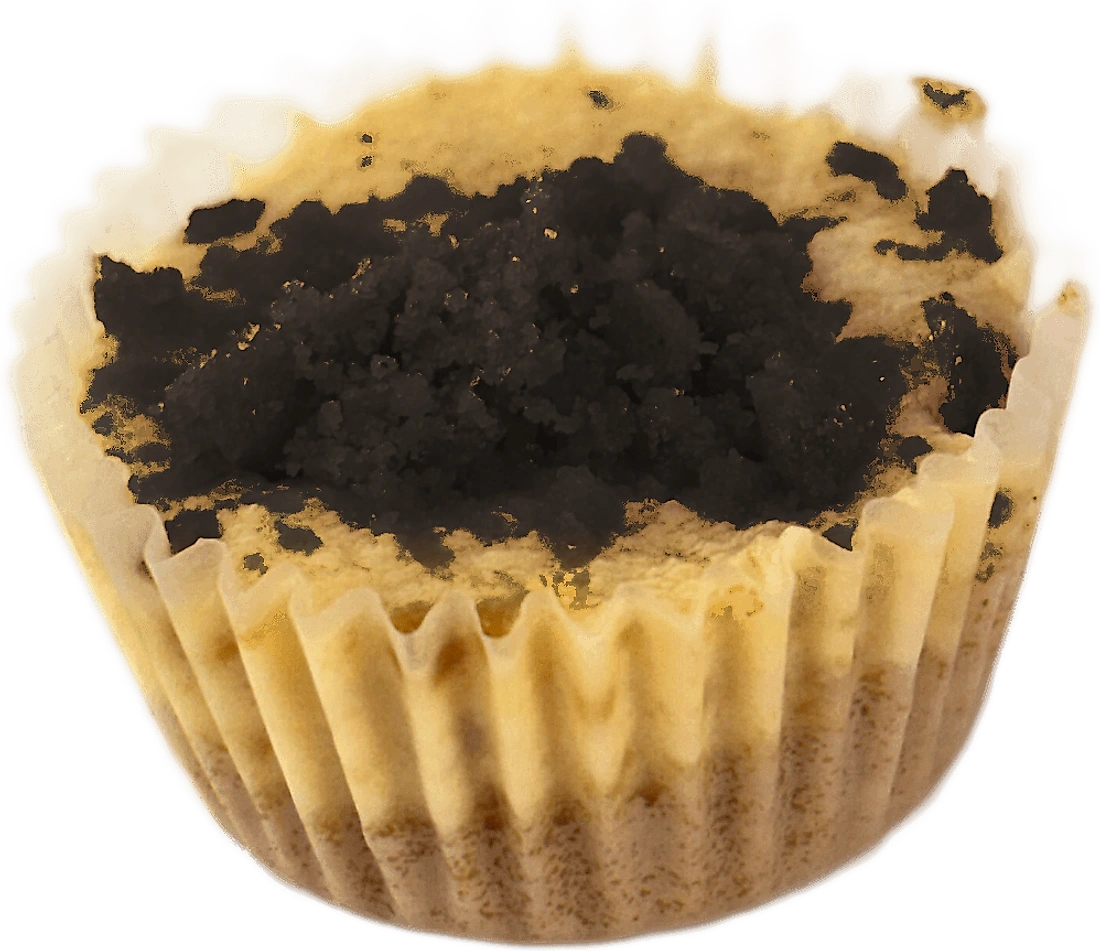
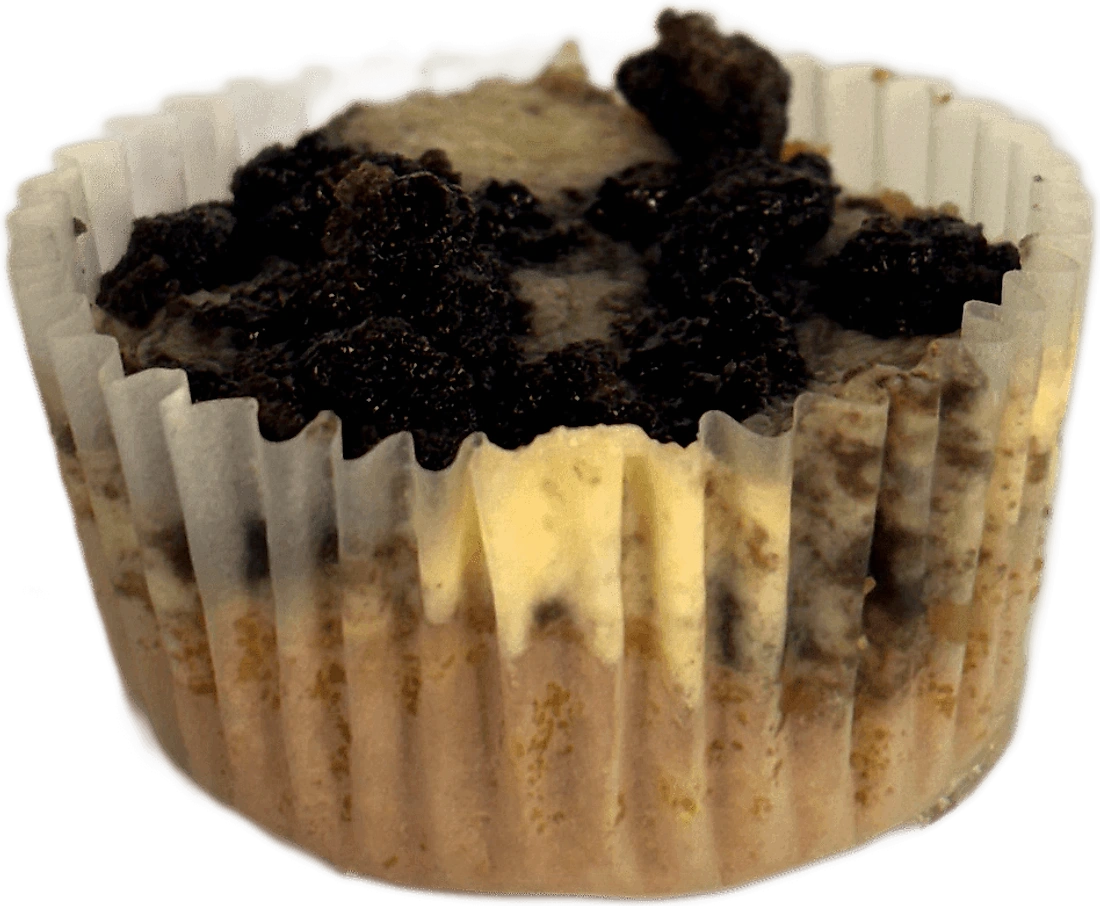
Use the real Oreo photos
Oreo's cut-out is now a real photograph, replacing the mock-up. It also
joins the Our Story strip (now four across) and the close-up strip on
Home, gets its hand-written note on Flavours, and the 3D Oreo topping
follows the photo. Coffee is the one remaining mock-up.

diff --git a/src/lib/three/bite.ts b/src/lib/three/bite.ts
@@ -163,24 +163,25 @@ const toppings: Record<FlavourId, () => Group> = {
     return group;
   },
 
-  // Oreo: a dark crumb with bigger cookie pieces.
+  // Oreo: cookie broken over the bare top, in dark pieces of every size.
   oreo: () => {
-    const group = new Group();
-    const crumb = matte('oreo-crumb', () => ({
-      map: crumbTexture('#1a1716', ['#0c0b0b', '#3a3534', '#f4efe6'], 61),
-    }));
     const cookie = matte('cookie', () => ({
-      color: '#171414',
+      map: crumbTexture('#1a1716', ['#0c0b0b', '#3a3534'], 61),
       roughness: 0.95,
     }));
-    const pieces = scatter(7, ringPlace(0.3, 0.04), () =>
-      mesh(
-        once('chunk', () => new DodecahedronGeometry(0.07, 0)),
-        cookie,
-      ),
+    return scatter(
+      14,
+      (piece, index) => {
+        ringPlace(0.36, 0.03)(piece, index);
+        const size = 0.8 + ((index * 0.53) % 1) * 1.2;
+        piece.scale.set(size, size * 0.7, size);
+      },
+      () =>
+        mesh(
+          once('chunk', () => new DodecahedronGeometry(0.07, 0)),
+          cookie,
+        ),
     );
-    group.add(disc('crumb', 0.36, crumb), pieces);
-    return group;
   },
 
   // Coffee: a marble swirl across the whole top, and one bean.

diff --git a/src/lib/bite-images.ts b/src/lib/bite-images.ts
@@ -4,10 +4,10 @@ import type { FlavourId } from '../content/flavours';
 // Bite photos live in src/assets/bites/<flavour id>.webp. A flavour without a
 // photo yet falls back to the cream-circle placeholder.
 //
-// TODO: oreo.webp and coffee.webp are mock-ups, not photographs. Each is a real
-// photo of another flavour with only its topping recoloured (Biscoff crumb to
-// Oreo crumb, blueberry compote to a coffee glaze). Replace them with real
-// photos of those two flavours, cut out the same way, when they exist.
+// TODO: coffee.webp is a mock-up, not a photograph: a real photo of a
+// Blueberry bite with only its topping recoloured to a coffee glaze. Replace
+// it with a real photo of the Coffee bite, cut out the same way, when one
+// exists. The other four are real photos.
 const photos = import.meta.glob<{ default: ImageMetadata }>('../assets/bites/*.webp', {
   eager: true,
 });

diff --git a/src/content/flavours.ts b/src/content/flavours.ts
@@ -9,8 +9,8 @@ export interface Flavour {
   note: string;
   // What bursts out around the bite in the flavour's scene.
   ingredient: string;
-  // True once the flavour's picture is a real photograph. The others are
-  // mock-ups (see src/lib/bite-images.ts) and get no hand-written note.
+  // True once the flavour's picture is a real photograph. Coffee's is still a
+  // mock-up (see src/lib/bite-images.ts) and gets no hand-written note.
   photographed?: boolean;
   // What the bite is made of, from the top down.
   layers: readonly Layer[];
@@ -55,6 +55,7 @@ export const flavours: readonly Flavour[] = [
     accent: '#111111',
     note: 'Cookies and cream, all the way down.',
     ingredient: 'Oreo crumbs',
+    photographed: true,
     layers: layersToConfirm,
   },
   {
